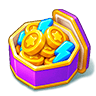
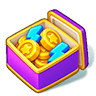
[Max] 아이템 아트 대조 문서에 선물 상자 3종(3201~3203) 새 그림 반영

diff --git a/docs/item-art-match.html b/docs/item-art-match.html
@@ -4,7 +4,7 @@
     <meta charset="utf-8" />
     <meta name="viewport" content="width=device-width, initial-scale=1" />
     <title>아이템 아트 시트 대조</title>
-    <meta name="description" content="새 아이템 아트 236장을 번역시트 이름과 나란히 놓고 일치 여부를 본 격자. 불일치 12." />
+    <meta name="description" content="새 아이템 아트 237장을 번역시트 이름과 나란히 놓고 일치 여부를 본 격자. 불일치 12." />
     <meta name="color-scheme" content="light" />
     <link rel="stylesheet" href="../style.css" />
     <!-- 체크(이슈 없음)는 로컬에서 여는 검수용이다. 서버(라이브)에서는 UI 와 동작을 모두 끈다 —
@@ -50,7 +50,7 @@
         <h2 class="doc-h2">요약 <span class="doc-h2-sub">241종</span></h2>
         <div class="stat-row">
           <div class="stat" style="--acc: var(--ok)">
-            <div class="stat-num" id="icg-s-ok">224</div>
+            <div class="stat-num" id="icg-s-ok">225</div>
             <div class="stat-name">일치</div>
           </div>
           <div class="stat" style="--acc: var(--warn)">
@@ -59,9 +59,9 @@
             <div class="stat-sub" id="icg-bad-list">703~704</div>
           </div>
           <div class="stat" style="--acc: var(--bad)">
-            <div class="stat-num" id="icg-s-none">5</div>
+            <div class="stat-num" id="icg-s-none">4</div>
             <div class="stat-name">이미지 없음</div>
-            <div class="stat-sub">상자 5</div>
+            <div class="stat-sub">상자 4</div>
           </div>
         </div>
       </div>
@@ -69,7 +69,7 @@
 
     <section class="doc-section" id="todo">
       <div class="wrap wrap--wide">
-        <h2 class="doc-h2">확인 필요 <span class="doc-h2-sub" id="todo-sub">불일치 12 · 이미지 없음 5 — 아래 전체 격자에서 먼저 모아 본 것</span></h2>
+        <h2 class="doc-h2">확인 필요 <span class="doc-h2-sub" id="todo-sub">불일치 12 · 이미지 없음 4 — 아래 전체 격자에서 먼저 모아 본 것</span></h2>
         <h3 class="doc-h2-sub" id="todo-h-bad" style="display: block; margin: 8px 0">불일치 12</h3>
         <div class="icg" id="todo-bad">
           <div class="icg-cell is-bad">
@@ -169,15 +169,8 @@
             <span class="icg-ko" style="font-size:11px;font-weight:500;line-height:1.3;color:var(--text-dim)">그림은 병·튜브·크림통 세트</span>
           </div>
         </div>
-        <h3 class="doc-h2-sub" id="todo-h-none" style="display: block; margin: 18px 0 8px">이미지 없음 5</h3>
+        <h3 class="doc-h2-sub" id="todo-h-none" style="display: block; margin: 18px 0 8px">이미지 없음 4</h3>
         <div class="icg" id="todo-none">
-          <div class="icg-cell is-none">
-            <span class="icg-lv">Lv.3</span>
-            <div class="icg-ph">이미지 없음</div>
-            <span class="icg-code">3203</span>
-            <span class="icg-en">Large Free Gift Chest</span>
-            <span class="icg-ko">큰 무료 선물 상자</span>
-          </div>
           <div class="icg-cell is-none">
             <span class="icg-lv">Lv.1</span>
             <div class="icg-ph">이미지 없음</div>
@@ -216,7 +209,7 @@
         <p class="doc-h2-sub" style="display: block; margin-bottom: 10px">
           아이템 격자(item_spec) 밖에 있지만 시트 <code>item_list</code> · <code>reward_key</code> 로 정의된 재화·토큰 아이콘입니다.
           붉은 칸은 쓸 그림이 없는 것입니다.
-          보드 상자 5종(3203 · 3301 · 3401 · 3501 · 3601)의 이미지 없음은 위 격자에 있습니다.
+          보드 상자 4종(3301 · 3401 · 3501 · 3601)의 이미지 없음은 위 격자에 있습니다.
           동전 · 젬 · 에너지 아이콘은 위 재화 아이템 그림(2701~ · 2801~ · 2901~)을 쓰므로 뺐습니다.
         </p>
         <h3 class="doc-h2-sub" style="display: block; margin: 14px 0 8px">지금 쓰이는 것 — 우선</h3>
@@ -289,8 +282,8 @@
         <div class="icg-bar" id="icg-main">
           <button type="button" class="icg-btn" data-f="all" aria-pressed="true">전체 241</button>
           <button type="button" class="icg-btn" data-f="bad" aria-pressed="false">불일치 <span id="icg-n-bad">12</span></button>
-          <button type="button" class="icg-btn" data-f="ok" aria-pressed="false">일치 <span id="icg-n-ok">224</span></button>
-          <button type="button" class="icg-btn" data-f="none" aria-pressed="false">이미지 없음 <span id="icg-n-none">5</span></button>
+          <button type="button" class="icg-btn" data-f="ok" aria-pressed="false">일치 <span id="icg-n-ok">225</span></button>
+          <button type="button" class="icg-btn" data-f="none" aria-pressed="false">이미지 없음 <span id="icg-n-none">4</span></button>
           <span class="icg-count" id="icg-count">표시 241</span>
         </div>
         <div class="icg-bar" id="icg-theme">
@@ -320,7 +313,7 @@
           <button type="button" class="icg-btn" data-k="all" aria-pressed="true">체크 전체</button>
           <button type="button" class="icg-btn" data-k="todo" aria-pressed="false">미체크</button>
           <button type="button" class="icg-btn" data-k="done" aria-pressed="false">이슈 없음 ✓</button>
-          <span class="icg-count" id="icg-done">✓ 0 / 236</span>
+          <span class="icg-count" id="icg-done">✓ 0 / 237</span>
         </div>
         <div class="icg-bar" id="icg-act">
           <button type="button" class="icg-btn" id="icg-clear">체크 전부 해제</button>
@@ -2141,9 +2134,10 @@
             <span class="icg-en">Fancy Pack</span>
             <span class="icg-ko">팬시 상자</span>
           </div>
-          <div class="icg-cell is-none" data-v="none" data-t="box32" data-ch="0">
+          <div class="icg-cell" data-v="ok" data-t="box32" data-ch="0">
+            <input type="checkbox" class="icg-chk" aria-label="이슈 없음" />
             <span class="icg-lv">Lv.3</span>
-            <div class="icg-ph">이미지 없음</div>
+            <img src="img/item-art-new/3203.png" width="96" height="96" loading="lazy" alt="3203" />
             <span class="icg-code">3203</span>
             <span class="icg-en">Large Free Gift Chest</span>
             <span class="icg-ko">큰 무료 선물 상자</span>

diff --git a/data.js b/data.js
@@ -42,7 +42,7 @@
 const SITE = {
   title: "Supergene 기획 허브",
   subtitle: "팀이 함께 보는 기획 · 수치 · 검증 문서 인덱스",
-  updated: "2026-10-12 17:22",
+  updated: "2026-10-13 17:49",
 };
 
 /* --------------------------------------------------------------------------
@@ -80,7 +80,7 @@ const SECTIONS = [
         project: "smg",
         status: "초안",
         version: "v1.19",
-        updated: "2026-10-13 10:45",
+        updated: "2026-10-13 17:49",
         pinned: false,
         tags: ["story-merge", "아트", "번역시트"],
       },

diff --git a/index.html b/index.html
@@ -48,7 +48,7 @@
     <!-- data.js 는 문서를 추가할 때마다 바뀌는 유일한 파일이다. GitHub Pages 가
          Cache-Control: max-age=600 을 주므로 버스터가 없으면 새 카드가 최대 10분간
          안 보인다. 날짜 버스터를 쓰고, data.js 의 SITE.updated 와 같은 값으로 맞춘다. -->
-    <script src="data.js?v=202610121722"></script>
+    <script src="data.js?v=202610131749"></script>
     <script src="app.js?v=proj8"></script>
   </body>
 </html>
